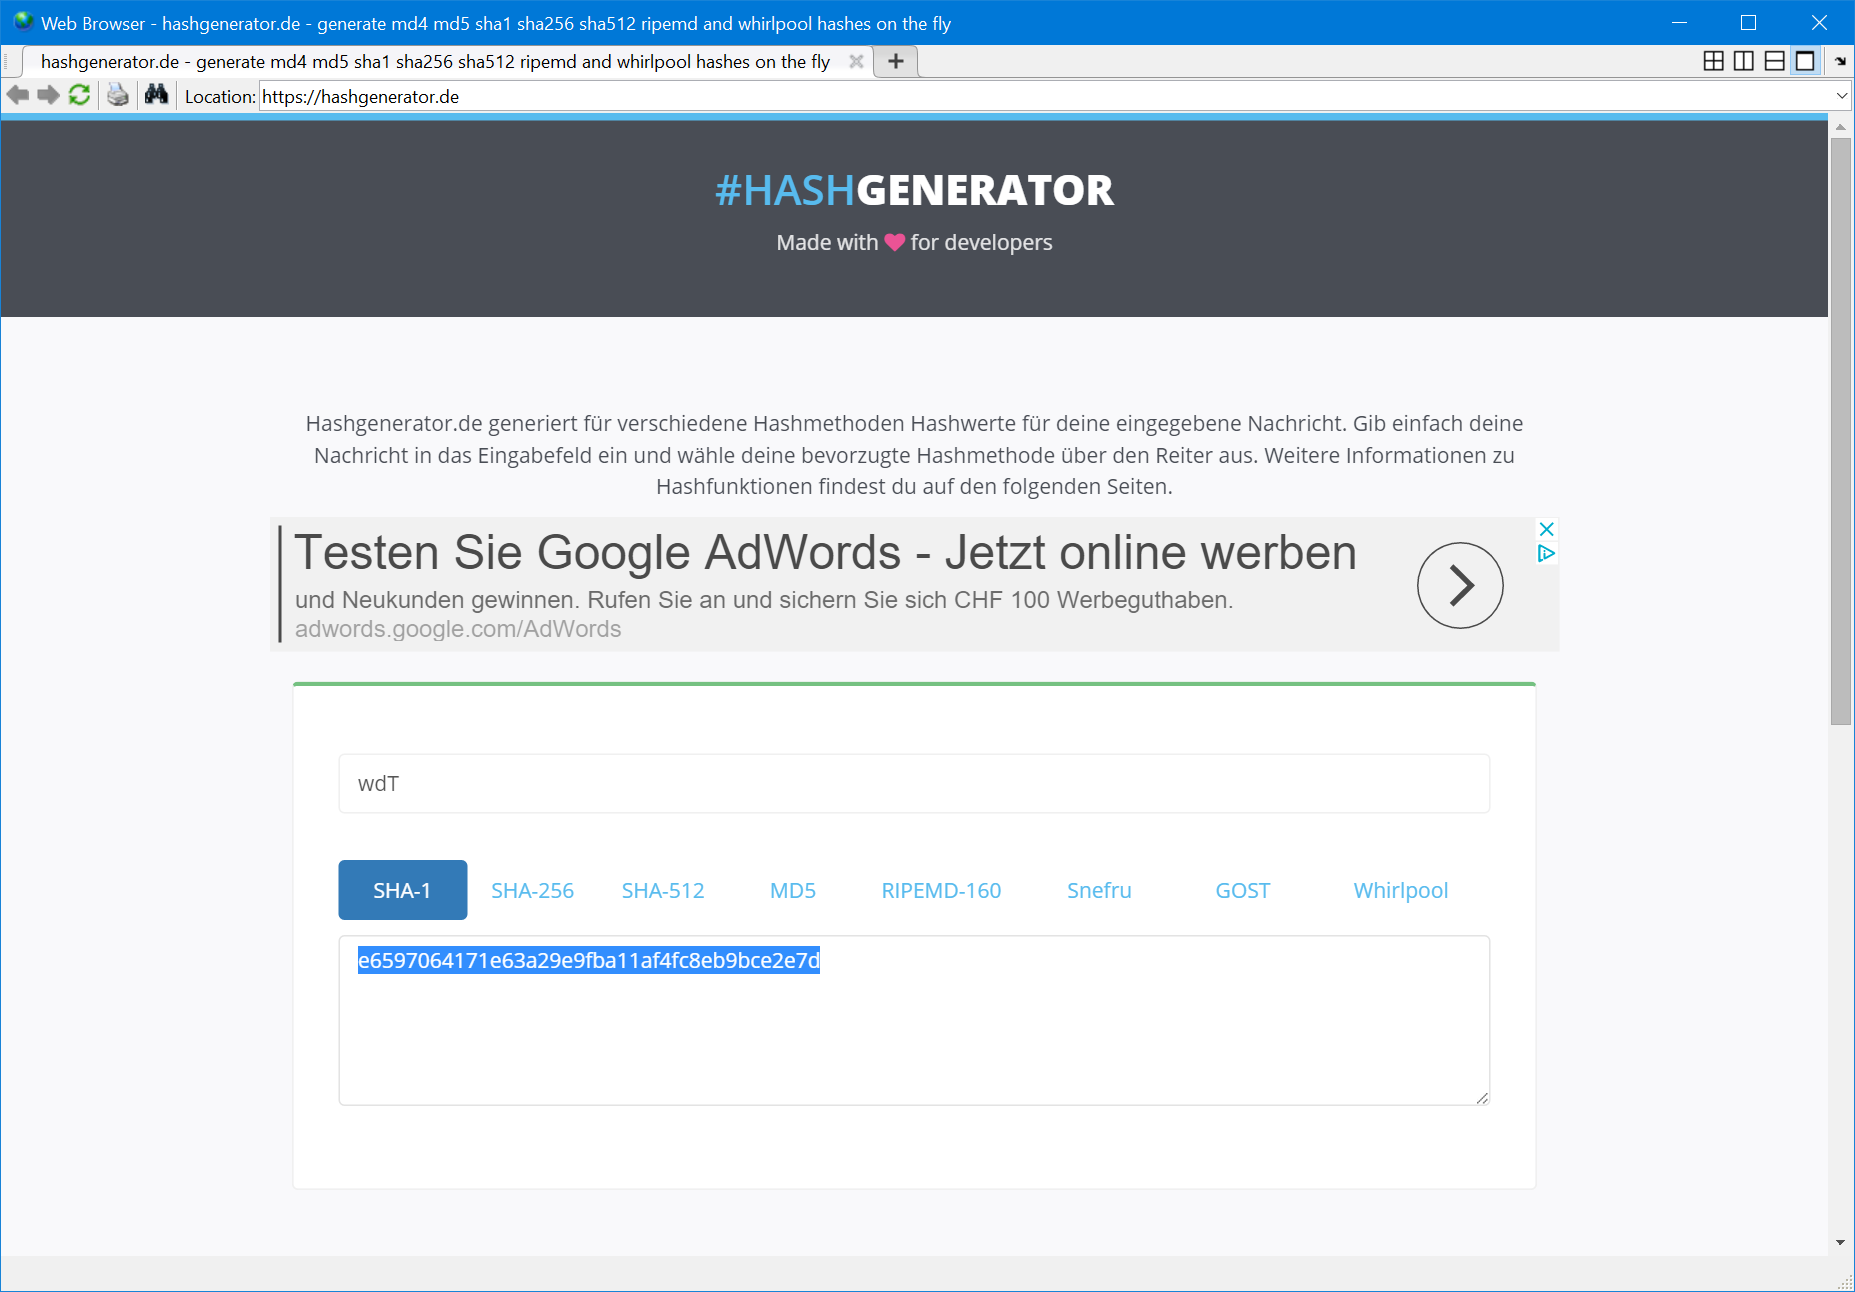
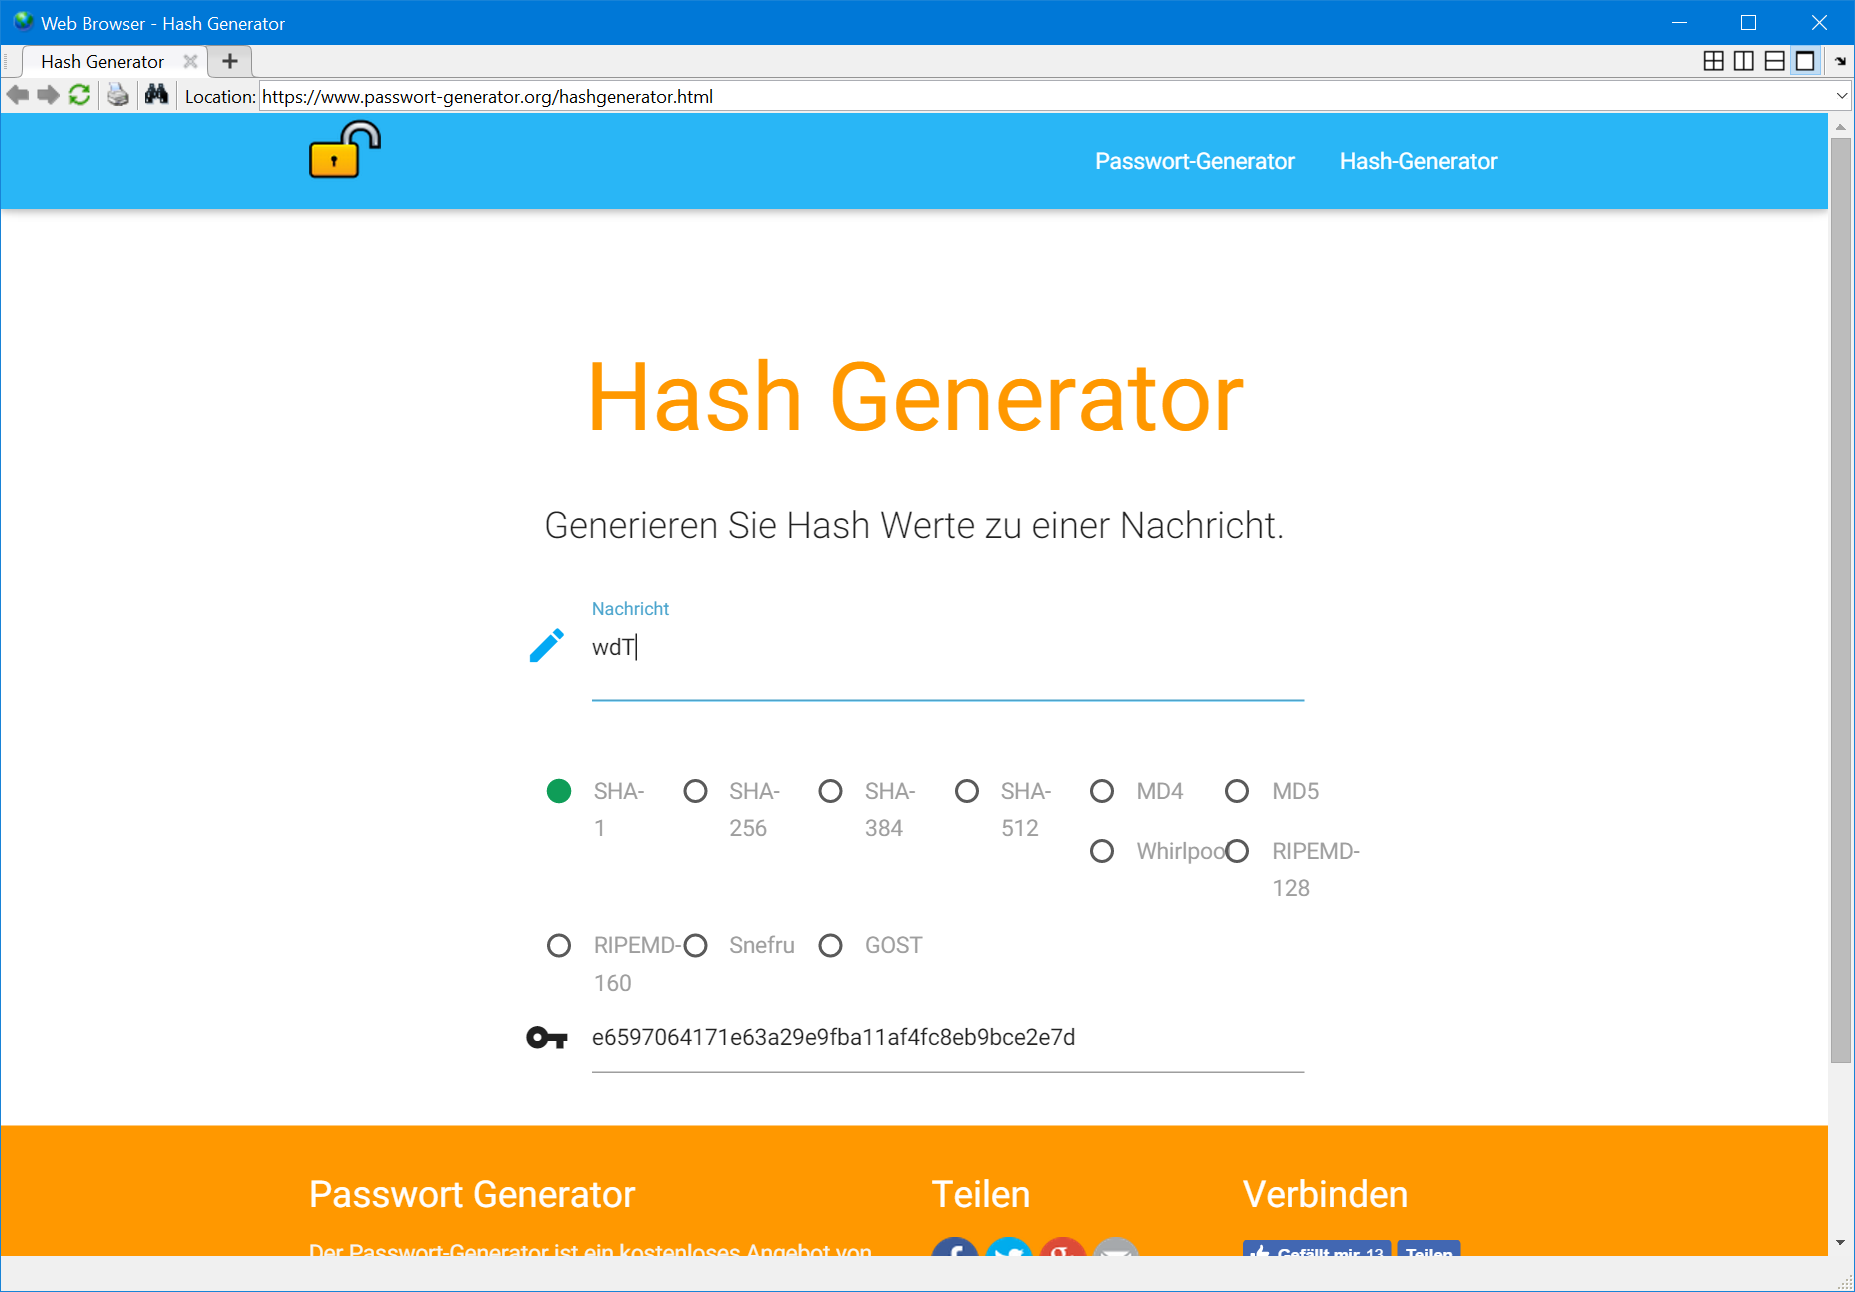
New webpage for Hash generator added

diff --git a/src/UI/userInterface_script.m b/src/UI/userInterface_script.m
@@ -723,7 +723,7 @@ classdef userInterface_script < matlab.apps.AppBase
             uiwait(msgbox({'You will be redirected to a website!';...
                 warnStr}, 'Warning','warn'));
             % Open the website
-            web('https://hashgenerator.de/'); 
+            web('https://www.passwort-generator.org/hashgenerator.html'); 
             
         end
         
